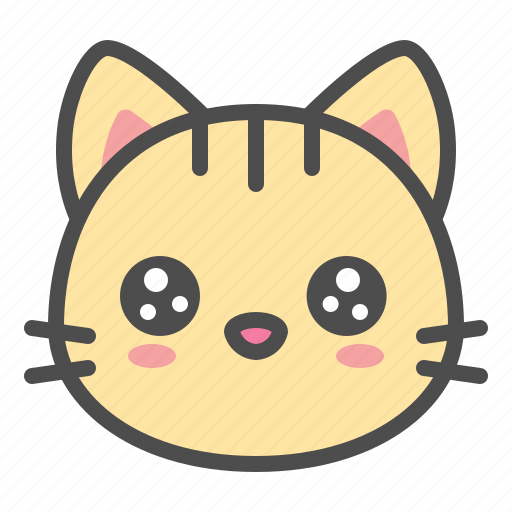
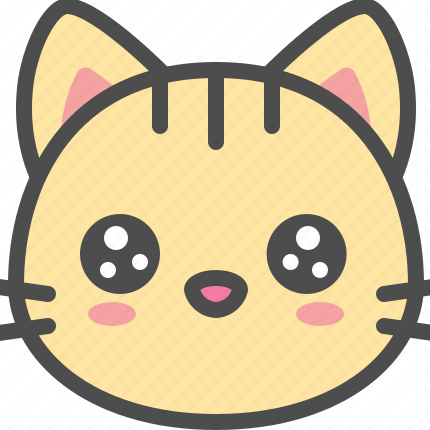
修改管理者權限 修改貓貓圖片

diff --git a/src/main/resources/static/game-end/snake.html b/src/main/resources/static/game-end/snake.html
@@ -219,6 +219,9 @@ D or L: Right
 S or K: Down
 A or J: Left
 Spacebar: Pause
+Shift: Slow down (unlocked at level 10)
+Customize snake head color unlocked at level 15
+Customize snake head SKIN unlocked at level 20
 Reminder: The higher the score, the greater the difficulty!       
 `;
         let index = 0;
@@ -245,7 +248,9 @@ D 或 L：右方向
 S 或 K：下方向
 A 或 J：左方向
 空白鍵：暫停
-Shift：減速
+Shift：減速(等級10 開啟)
+等級15開啟自訂蛇頭顏色
+等級20開啟自訂蛇頭SKIN
 等級20以下預設關閉自我碰撞
 小提醒：分數越高，蛇的速度也會越快！
 小技巧：可以在接近果子的時候使用緩速技能

diff --git a/src/main/resources/static/game-end/login.html b/src/main/resources/static/game-end/login.html
@@ -125,7 +125,7 @@
       contentType: "application/json",
       success: function (response) {
         // 判斷是否為管理員
-        if (response.email === "?" && response.password === "!") {
+        if (response.email === "???" && response.password.includes("!")) {
           window.location.href = "manage.html";
         } else if (response) {    // 判斷使用者是否存在
           let user = {

diff --git a/src/main/resources/static/game-end/member_center.html b/src/main/resources/static/game-end/member_center.html
@@ -79,13 +79,6 @@
                 </div>
                 <textarea name="myText" id="output" readonly></textarea>
 
-
-
-
-
-
-
-
                 <a href="chat_room.html" class="btn">
                     <span></span>
                     <span></span>

diff --git a/src/main/java/com/tw/game/controller/UserController.java b/src/main/java/com/tw/game/controller/UserController.java
@@ -34,7 +34,7 @@ public class UserController {
     @GetMapping("/all")
     public List<User> getAllUsers(HttpSession session){
         User user = (User)session.getAttribute("user");
-        if (user.getEmail().equals("?") && user.getPassword().equals("!")) {
+        if (user.getEmail().equals("???") && user.getPassword().equals("!861229")) {
             return userService.findAllUser();
         } else {
             return null;
@@ -100,7 +100,7 @@ public class UserController {
     public boolean updateUser(@PathVariable int userId, @RequestParam int money,HttpSession session){
         User manager = (User)session.getAttribute("user");
 
-        if (manager.getEmail().equals("?") && manager.getPassword().equals("!")) {
+        if (manager.getEmail().equals("???") && manager.getPassword().equals("!861229")) {
             User user = userService.findUserById(userId);
             System.out.println(money);
             user.setMoney(money);
@@ -127,7 +127,7 @@ public class UserController {
     @DeleteMapping("/{userId}")
     public boolean deleteUser(@PathVariable int userId,HttpSession session){
         User user = (User)session.getAttribute("user");
-        if (user.getEmail().equals("?") && user.getPassword().equals("!")) {
+        if (user.getEmail().equals("???") && user.getPassword().equals("!861229")) {
             if(userService.findUserById(userId)!= null){
                 userService.deleteUser(userId);
                 return true;
